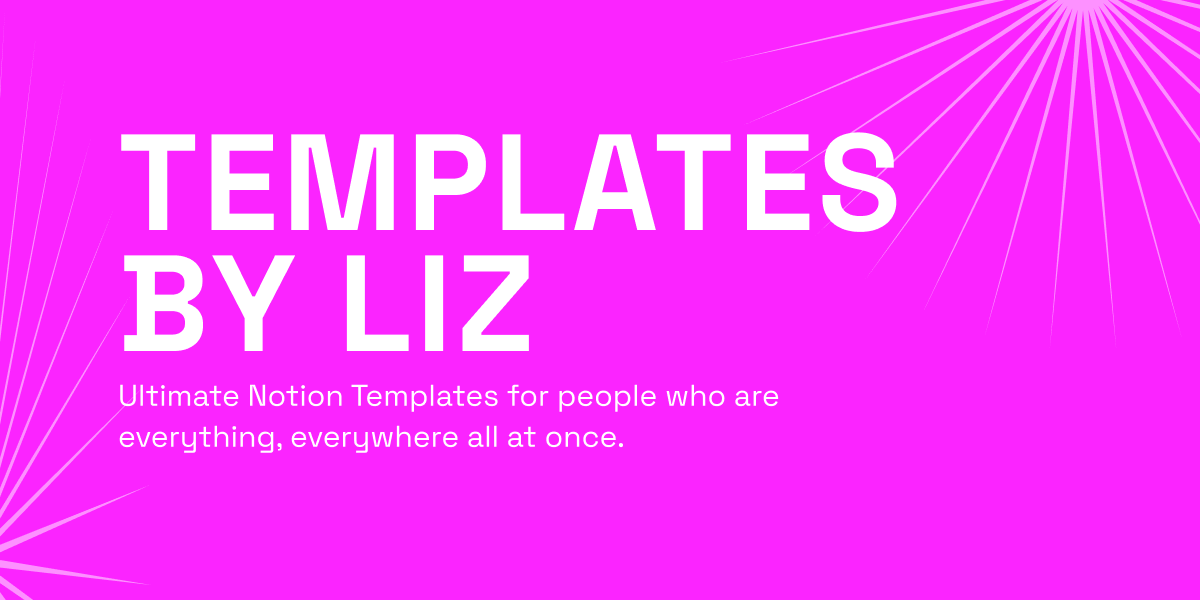
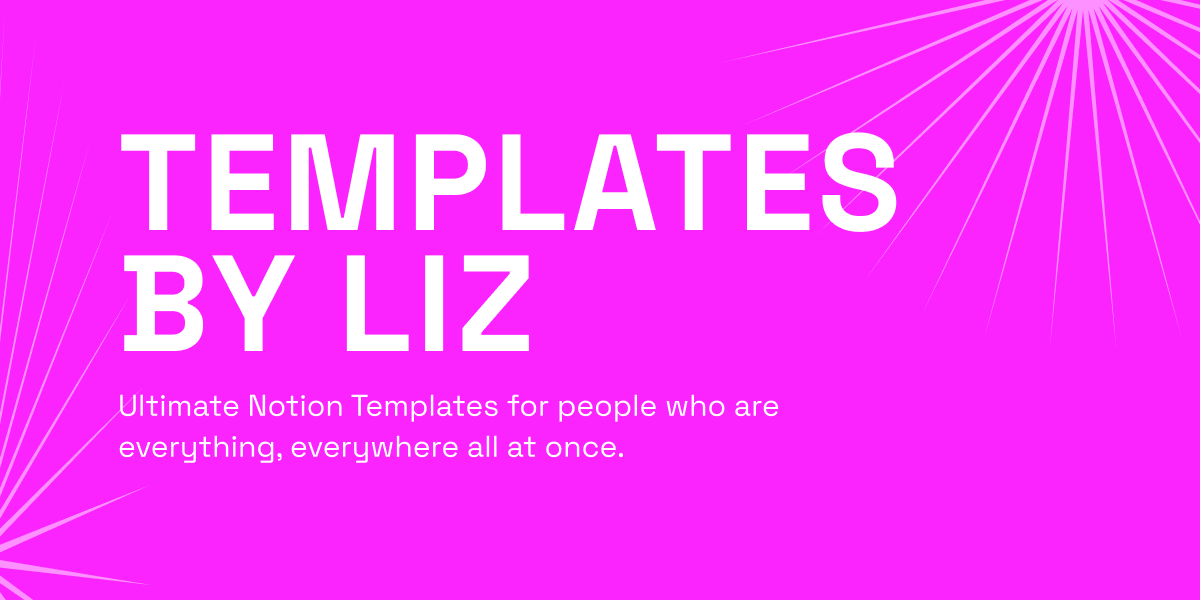
og image alignment

Changed region(s): [[0.0925, 0.63, 0.6475, 0.78]]

diff --git a/src/pages/index.tsx b/src/pages/index.tsx
@@ -66,7 +66,7 @@ const Home: NextPage = () => {
               </Link>
             </li>
             <li className={styles.template}>
-              <Link href="www.bridezillaproof.com">
+              <Link href="https://www.bridezillaproof.com">
                 <div className={styles.templateIcon}></div>
                 <div className={styles.templateDescription}>
                   <h2>The ultimate wedding planning template</h2>
